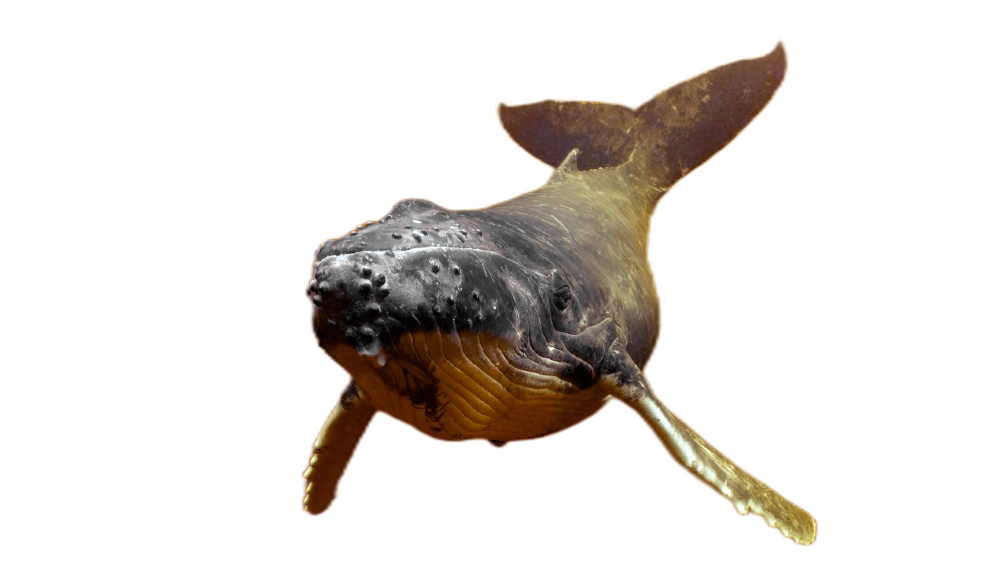
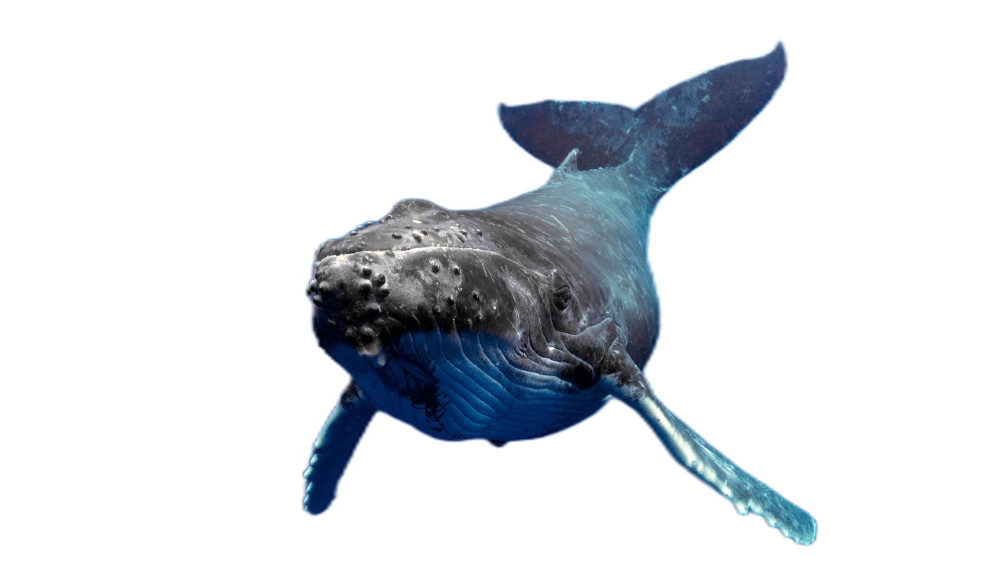
Update rmbg rgb->rgba

Changed region(s): [[0.279, 0.0622, 0.837, 0.9637], [0.341, 0.3731, 0.372, 0.4041]]

diff --git a/app_st.py b/app_st.py
@@ -21,8 +21,8 @@ def main():
         st.image(image, caption='Hình ảnh đã tải lên')
 
         # Áp dụng chức năng biến đổi
+        # transformed_image = cv2.cvtColor(apply_transformation(image, transformation), cv2.COLOR_BGR2RGB)
         transformed_image = apply_transformation(image, transformation)
-
         # Hiển thị hình ảnh sau khi biến đổi
         st.subheader("Hình ảnh sau khi biến đổi")
         st.image(transformed_image, caption='Hình ảnh đã biến đổi')
@@ -58,7 +58,7 @@ def apply_transformation(image, transformation):
 
 def save_image(transformation, image, save_path):
     if transformation == "Xóa nền":
-        cv2.imwrite(save_path, image)
+        cv2.imwrite(save_path,  cv2.cvtColor(image, cv2.COLOR_RGBA2BGRA))
     else:
         cv2.imwrite(save_path, cv2.cvtColor(image, cv2.COLOR_RGB2BGR))
 
